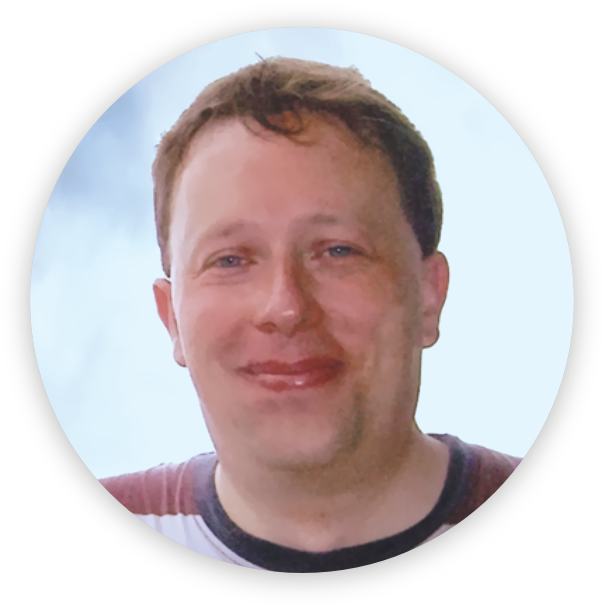
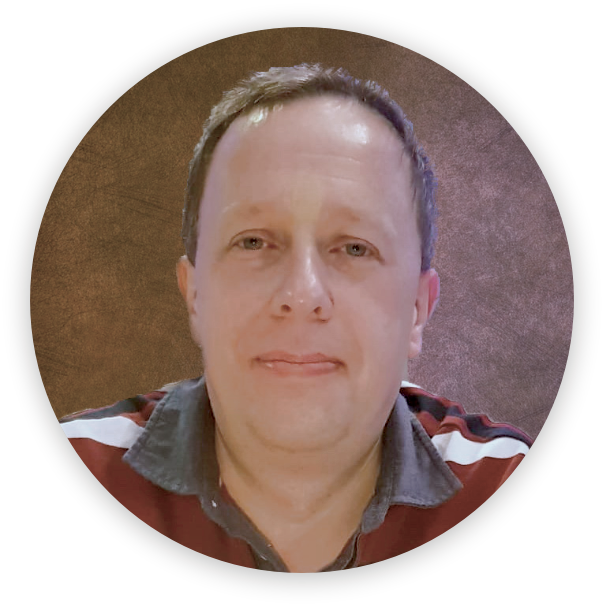
Added new speakers to site.
- Added new speakers bios and photos (where available).
- Removed old speakers photos and bios.

Note: order will need to be changed when we've made some progress with the timetable.

diff --git a/contents/des-howlett.md b/contents/des-howlett.md
@@ -1,3 +1,1 @@
-Dr Des Howlett has been keen on Astronomy from a very young age, having followed the various space programmes as a child and beyond. Since moving to the Southwest, he has become a member of the Norman Lockyer Observatory and was elected a Director in 2018. He has a particular interest in celestial mechanics and can often be found sitting quietly, looking through binoculars simply admiring the patterns of the stars.
- 
-Professionally he is a Chartered European Engineer and works around the world teaching other engineers how to design electronics and write computer software.
+By day, Dr Des Howlett is a professional Engineer who runs training courses in electronic design and computer programming. Outside work, he is a Director of the Norman Lockyer Observatory and enjoys spending hours just looking at the patterns in the stars and planets. He was interested in spaceflight from a very young age, with his heart set on walking on the Moon, but was unfortunately too late to join the Apollo programme, and too old to be part of Artemis. For him, looking at the heavens is the next best thing.

diff --git a/contents/simon-clark.md b/contents/simon-clark.md
@@ -1,0 +1,5 @@
+Simon Clark is a videomaker and science communicator from Bath, UK. He finished his PhD in theoretical atmospheric physics at the University of Exeter. Prior to this he studied physics at St Peter's College, University of Oxford, obtaining his master’s degree and specialising in theoretical and atmospheric physics.
+
+He Started to create YouTube videos in 2010, his YouTube channel SimonOxfPhys initially focused on helping students from disadvantaged backgrounds apply to prestigious universities. After moving to Exeter for his PhD his video output changed to focus more on science - including two educational series about the physics of the atmosphere and the cryosphere - and vlogging about life as a graduate student. Since his PhD graduation and becoming a full-time science communicator his videos have focused on atmospheric science, with other topics such as the history of science, machine learning, and mental health also making appearances.
+
+Over the years his YouTube channel has gone from strength to strength, accruing over 460,000 subscribers and over 40 million lifetime views.

diff --git a/contents/raphaelle-haywood.md b/contents/raphaelle-haywood.md
@@ -1,0 +1,1 @@
+Dr Raphaëlle D. Haywood is an STFC Ernest Rutherford Fellow and Senior Lecturer in Physics and Astronomy at the University of Exeter who hunts for planets that orbit other stars -- exoplanets. Her research focuses on understanding the natural variability of planet-hosting stars to better characterise the planets around them. She recently advised NASA and the US National Science Foundation on designing a roadmap to discover Earth-like planets over the next decade. Dr Haywood is passionate about addressing social and environmental issues and is using astronomical observations to inspire people to action. Before joining Exeter, Dr Haywood was a NASA Sagan Fellow at Harvard University. Dr Haywood holds a Masters in Physics from Imperial College London, a PhD in Astrophysics from the University of St Andrews, and a Certificate in Sustainability from the Harvard Extension School.

diff --git a/contents/alex-mcginty.md b/contents/alex-mcginty.md
@@ -1,0 +1,3 @@
+Alex is a third year Physics with Astrophysics student at the University of Exeter. His masters project is building a real time weather forecasting system for future crewed exploration of Mars. Outside of his degree he is the current president of Space Exe and as part of this role he leads our star gazing activities and the oversee the rest of our activities.
+
+As fans of the Martian may realise Martian dust storms can be dangerous. These storms may begin as localised storms but can grow into planet engulfing storms, so landing a crewed mission can be difficult. During his talk he will explain the major factors which make up the Martian climate and how we can adapt the current Met Office Unified Model which is used for weather and climate predictions on Earth to modern day Mars.

diff --git a/contents/ollie-lewis.md b/contents/ollie-lewis.md
@@ -1,0 +1,1 @@
+My name is Ollie and I am a PhD student in my second year working with the University and the Met Office on a new weather observation method.  I've been fascinated by all things weather-related since I was a young lad and working with the Met Office has always been a dream of mine.  I am currently exploring how we can use the refraction of aircraft radio signals to measure humidity.  The air, much like water, refracts and bends light, and the amount of bending can tell us a huge amount about the temperature, pressure, and humidity of the atmosphere.  My work aims to use this new source of observation data to potentially improve weather forecasts in the UK and beyond!
